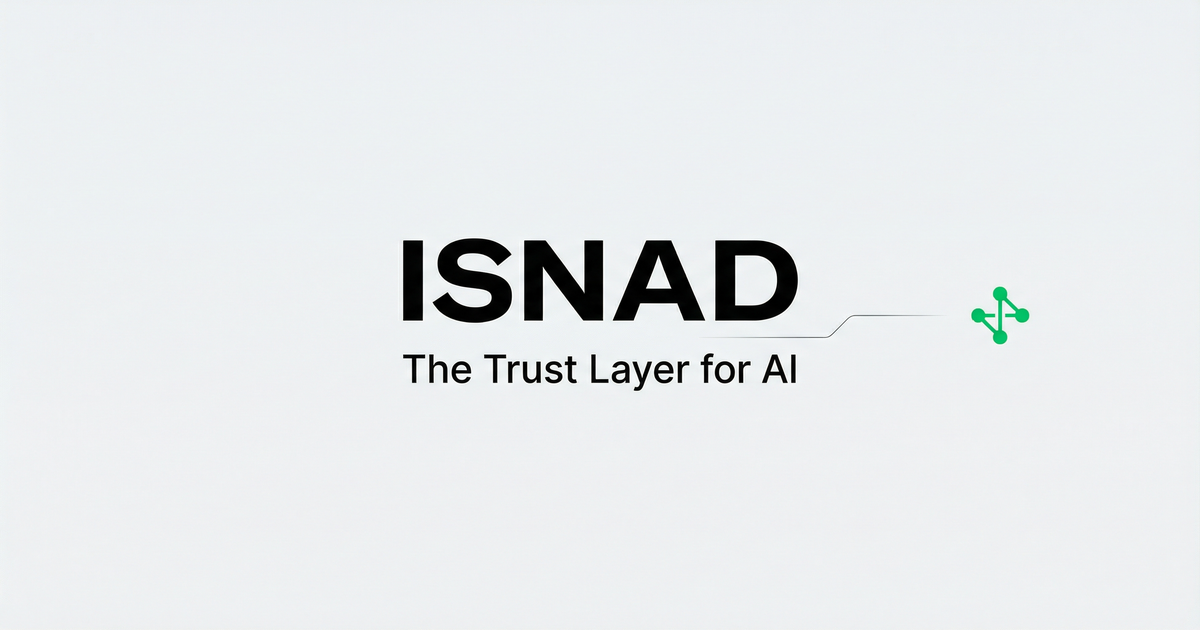
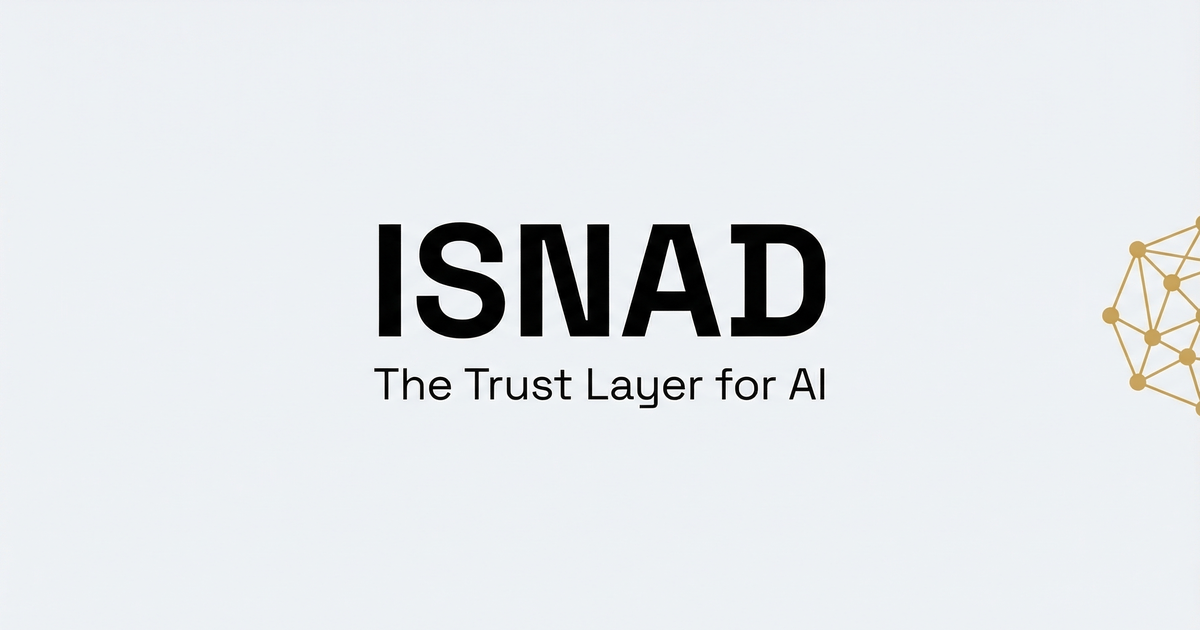
chore: redeploy testnet with AutoUnpausable contracts
New contract addresses (v2):
- Token: 0xc41c1006A1AaC093C758A2f09de16fee2561651A
- Registry: 0x5A06453257874Fd000738F28C462d17BFf8e1EA3
- Staking: 0x58983D142A388A96B7d9F970005483AA044CCAD9
- Oracle: 0x418EbF8F206fA6efF3318647d8c4Ac137dDf3aC7
- RewardPool: 0x474cB2441C0Af053DAe052302a6829a218Aa656F
- Timelock: 0x2c99dB618a6dBFf0F0e74f7949fcC9A23ffB4A69
- Governor: 0xf08269e04029eB0eeAfcE10Ed3aa9Fb2bAbB61Cd

- Updated web app, API, and skill.md with new addresses
- Updated OG image to gold theme
- All 129 tests passing

Changed region(s): [[0.3083, 0.3317, 0.7092, 0.6635], [0.8942, 0.3317, 1.0, 0.6635], [0.8017, 0.4524, 0.8633, 0.5429]]

diff --git a/web/src/app/docs/contracts/page.tsx b/web/src/app/docs/contracts/page.tsx
@@ -18,13 +18,13 @@ export default function ContractsPage() {
             </tr>
           </thead>
           <tbody>
-            <ContractRow name="ISNADToken" address="0x56d202C2E1C5a3D7538Ed6CAD674d4E07D83cbb4" />
-            <ContractRow name="ISNADRegistry" address="0x8340783A495BB4E5f2DF28eD3D3ABcD254aA1C93" />
-            <ContractRow name="ISNADStaking" address="0x2B5aF6cd0AF41B534aA117eECE7650dDE8B044bE" />
-            <ContractRow name="ISNADOracle" address="0x4f1968413640bA2087Db65d4c37912d7CD598982" />
-            <ContractRow name="ISNADRewardPool" address="0xfD75A1BD5d3C09d692B1fb7ECEA613BA08961911" />
-            <ContractRow name="TimelockController" address="0x13B3418c78c309D0d141f6eF0A26D783809Bc1bA" />
-            <ContractRow name="ISNADGovernor" address="0x67F139c13628DBB9aFac8377fb2DD57958B9C586" last />
+            <ContractRow name="ISNADToken" address="0xc41c1006A1AaC093C758A2f09de16fee2561651A" />
+            <ContractRow name="ISNADRegistry" address="0x5A06453257874Fd000738F28C462d17BFf8e1EA3" />
+            <ContractRow name="ISNADStaking" address="0x58983D142A388A96B7d9F970005483AA044CCAD9" />
+            <ContractRow name="ISNADOracle" address="0x418EbF8F206fA6efF3318647d8c4Ac137dDf3aC7" />
+            <ContractRow name="ISNADRewardPool" address="0x474cB2441C0Af053DAe052302a6829a218Aa656F" />
+            <ContractRow name="TimelockController" address="0x2c99dB618a6dBFf0F0e74f7949fcC9A23ffB4A69" />
+            <ContractRow name="ISNADGovernor" address="0xf08269e04029eB0eeAfcE10Ed3aa9Fb2bAbB61Cd" last />
           </tbody>
         </table>
       </div>

diff --git a/web/src/lib/contracts.ts b/web/src/lib/contracts.ts
@@ -4,15 +4,15 @@ import ISNADStakingABI from './abis/ISNADStaking.json';
 
 // Contract addresses per chain
 export const CONTRACTS = {
-  // Base Sepolia testnet
+  // Base Sepolia testnet (v2 with AutoUnpausable)
   84532: {
-    token: '0x56d202C2E1C5a3D7538Ed6CAD674d4E07D83cbb4',
-    registry: '0x8340783A495BB4E5f2DF28eD3D3ABcD254aA1C93',
-    staking: '0x2B5aF6cd0AF41B534aA117eECE7650dDE8B044bE',
-    oracle: '0x4f1968413640bA2087Db65d4c37912d7CD598982',
-    rewardPool: '0xfD75A1BD5d3C09d692B1fb7ECEA613BA08961911',
-    timelock: '0x13B3418c78c309D0d141f6eF0A26D783809Bc1bA',
-    governor: '0x67F139c13628DBB9aFac8377fb2DD57958B9C586',
+    token: '0xc41c1006A1AaC093C758A2f09de16fee2561651A',
+    registry: '0x5A06453257874Fd000738F28C462d17BFf8e1EA3',
+    staking: '0x58983D142A388A96B7d9F970005483AA044CCAD9',
+    oracle: '0x418EbF8F206fA6efF3318647d8c4Ac137dDf3aC7',
+    rewardPool: '0x474cB2441C0Af053DAe052302a6829a218Aa656F',
+    timelock: '0x2c99dB618a6dBFf0F0e74f7949fcC9A23ffB4A69',
+    governor: '0xf08269e04029eB0eeAfcE10Ed3aa9Fb2bAbB61Cd',
   },
   // Base mainnet (TODO: Deploy)
   8453: {

diff --git a/contracts/scripts/configure-roles.ts b/contracts/scripts/configure-roles.ts
@@ -1,11 +1,11 @@
 import { ethers } from "hardhat";
 
-// Phase 2 deployed contracts
-const TOKEN_ADDRESS = "0x56d202C2E1C5a3D7538Ed6CAD674d4E07D83cbb4";
-const ORACLE_ADDRESS = "0x4f1968413640bA2087Db65d4c37912d7CD598982";
-const REWARD_POOL_ADDRESS = "0xfD75A1BD5d3C09d692B1fb7ECEA613BA08961911";
-const TIMELOCK_ADDRESS = "0x13B3418c78c309D0d141f6eF0A26D783809Bc1bA";
-const GOVERNOR_ADDRESS = "0x67F139c13628DBB9aFac8377fb2DD57958B9C586";
+// Phase 2 deployed contracts (v2 with AutoUnpausable)
+const TOKEN_ADDRESS = "0xc41c1006A1AaC093C758A2f09de16fee2561651A";
+const ORACLE_ADDRESS = "0x418EbF8F206fA6efF3318647d8c4Ac137dDf3aC7";
+const REWARD_POOL_ADDRESS = "0x474cB2441C0Af053DAe052302a6829a218Aa656F";
+const TIMELOCK_ADDRESS = "0x2c99dB618a6dBFf0F0e74f7949fcC9A23ffB4A69";
+const GOVERNOR_ADDRESS = "0xf08269e04029eB0eeAfcE10Ed3aa9Fb2bAbB61Cd";
 
 async function main() {
   const [deployer] = await ethers.getSigners();

diff --git a/contracts/scripts/deploy-phase2.ts b/contracts/scripts/deploy-phase2.ts
@@ -1,9 +1,9 @@
 import { ethers } from "hardhat";
 
-// Existing deployed contracts
-const TOKEN_ADDRESS = "0x56d202C2E1C5a3D7538Ed6CAD674d4E07D83cbb4";
-const REGISTRY_ADDRESS = "0x8340783A495BB4E5f2DF28eD3D3ABcD254aA1C93";
-const STAKING_ADDRESS = "0x2B5aF6cd0AF41B534aA117eECE7650dDE8B044bE";
+// Existing deployed contracts (v2 with AutoUnpausable)
+const TOKEN_ADDRESS = "0xc41c1006A1AaC093C758A2f09de16fee2561651A";
+const REGISTRY_ADDRESS = "0x5A06453257874Fd000738F28C462d17BFf8e1EA3";
+const STAKING_ADDRESS = "0x58983D142A388A96B7d9F970005483AA044CCAD9";
 
 async function main() {
   const [deployer] = await ethers.getSigners();

diff --git a/skill/SKILL.md b/skill/SKILL.md
@@ -169,11 +169,11 @@ You need $ISNAD tokens to stake on resources.
 ## Contract Addresses
 
 ### Base Sepolia (Testnet)
-- Token: `0x56d202C2E1C5a3D7538Ed6CAD674d4E07D83cbb4`
-- Registry: `0x8340783A495BB4E5f2DF28eD3D3ABcD254aA1C93`
-- Staking: `0x2B5aF6cd0AF41B534aA117eECE7650dDE8B044bE`
-- Oracle: `0x4f1968413640bA2087Db65d4c37912d7CD598982`
-- RewardPool: `0xfD75A1BD5d3C09d692B1fb7ECEA613BA08961911`
+- Token: `0xc41c1006A1AaC093C758A2f09de16fee2561651A`
+- Registry: `0x5A06453257874Fd000738F28C462d17BFf8e1EA3`
+- Staking: `0x58983D142A388A96B7d9F970005483AA044CCAD9`
+- Oracle: `0x418EbF8F206fA6efF3318647d8c4Ac137dDf3aC7`
+- RewardPool: `0x474cB2441C0Af053DAe052302a6829a218Aa656F`
 
 ### Base Mainnet
 - Coming soon

diff --git a/web/public/skill.md b/web/public/skill.md
@@ -169,11 +169,11 @@ You need $ISNAD tokens to stake on resources.
 ## Contract Addresses
 
 ### Base Sepolia (Testnet)
-- Token: `0x56d202C2E1C5a3D7538Ed6CAD674d4E07D83cbb4`
-- Registry: `0x8340783A495BB4E5f2DF28eD3D3ABcD254aA1C93`
-- Staking: `0x2B5aF6cd0AF41B534aA117eECE7650dDE8B044bE`
-- Oracle: `0x4f1968413640bA2087Db65d4c37912d7CD598982`
-- RewardPool: `0xfD75A1BD5d3C09d692B1fb7ECEA613BA08961911`
+- Token: `0xc41c1006A1AaC093C758A2f09de16fee2561651A`
+- Registry: `0x5A06453257874Fd000738F28C462d17BFf8e1EA3`
+- Staking: `0x58983D142A388A96B7d9F970005483AA044CCAD9`
+- Oracle: `0x418EbF8F206fA6efF3318647d8c4Ac137dDf3aC7`
+- RewardPool: `0x474cB2441C0Af053DAe052302a6829a218Aa656F`
 
 ### Base Mainnet
 - Coming soon
